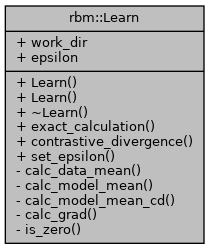
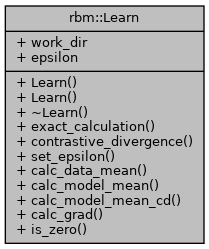
Deploying to gh-pages from @ ankurugranpa/Rbm@cdb7dab4575266c38e277a3c5200c2dcffff69d4 🚀

Changed region(s): [[0.0861, 0.6466, 0.8612, 0.9558]]

diff --git a/classrbm_1_1Learn.html b/classrbm_1_1Learn.html
@@ -68,7 +68,6 @@ $(function() {
   <div class="summary">
 <a href="#pub-methods">公開メンバ関数</a> &#124;
 <a href="#pub-attribs">公開変数類</a> &#124;
-<a href="#pri-methods">非公開メンバ関数</a> &#124;
 <a href="classrbm_1_1Learn-members.html">全メンバ一覧</a>  </div>
   <div class="headertitle">
 <div class="title">rbm::Learn クラス</div>  </div>
@@ -106,17 +105,6 @@ rbm::Learn 連携図</div>
 <tr class="separator:aea5ae36bb1c582b4039837db3750f553"><td class="memSeparator" colspan="2">&#160;</td></tr>
 <tr class="memitem:affa9c2200d2b62d254fa831bb82fad1d"><td class="memItemLeft" align="right" valign="top">void&#160;</td><td class="memItemRight" valign="bottom"><a class="el" href="classrbm_1_1Learn.html#affa9c2200d2b62d254fa831bb82fad1d">set_epsilon</a> (double value)</td></tr>
 <tr class="separator:affa9c2200d2b62d254fa831bb82fad1d"><td class="memSeparator" colspan="2">&#160;</td></tr>
-</table><table class="memberdecls">
-<tr class="heading"><td colspan="2"><h2 class="groupheader"><a name="pub-attribs"></a>
-公開変数類</h2></td></tr>
-<tr class="memitem:a2367128151447894932115e09241c2af"><td class="memItemLeft" align="right" valign="top">std::string&#160;</td><td class="memItemRight" valign="bottom"><a class="el" href="classrbm_1_1Learn.html#a2367128151447894932115e09241c2af">work_dir</a></td></tr>
-<tr class="memdesc:a2367128151447894932115e09241c2af"><td class="mdescLeft">&#160;</td><td class="mdescRight">学習結果や過程の保存先  <a href="classrbm_1_1Learn.html#a2367128151447894932115e09241c2af">[詳解]</a><br /></td></tr>
-<tr class="separator:a2367128151447894932115e09241c2af"><td class="memSeparator" colspan="2">&#160;</td></tr>
-<tr class="memitem:a72e3bea6529aefbb4b57a852ad05b652"><td class="memItemLeft" align="right" valign="top">double&#160;</td><td class="memItemRight" valign="bottom"><a class="el" href="classrbm_1_1Learn.html#a72e3bea6529aefbb4b57a852ad05b652">epsilon</a> = 1e-10</td></tr>
-<tr class="separator:a72e3bea6529aefbb4b57a852ad05b652"><td class="memSeparator" colspan="2">&#160;</td></tr>
-</table><table class="memberdecls">
-<tr class="heading"><td colspan="2"><h2 class="groupheader"><a name="pri-methods"></a>
-非公開メンバ関数</h2></td></tr>
 <tr class="memitem:abc6fbf8c11670664518049bee83bf2b4"><td class="memItemLeft" align="right" valign="top"><a class="el" href="classrbm__types_1_1Grad.html">Grad</a>&#160;</td><td class="memItemRight" valign="bottom"><a class="el" href="classrbm_1_1Learn.html#abc6fbf8c11670664518049bee83bf2b4">calc_data_mean</a> (const <a class="el" href="classrbm_1_1Model.html">Model</a> &amp;model_object, const <a class="el" href="structrbm__types_1_1DataSet.html">DataSet</a> &amp;data_set)</td></tr>
 <tr class="memdesc:abc6fbf8c11670664518049bee83bf2b4"><td class="mdescLeft">&#160;</td><td class="mdescRight">データ平均  <a href="classrbm_1_1Learn.html#abc6fbf8c11670664518049bee83bf2b4">[詳解]</a><br /></td></tr>
 <tr class="separator:abc6fbf8c11670664518049bee83bf2b4"><td class="memSeparator" colspan="2">&#160;</td></tr>
@@ -132,6 +120,14 @@ rbm::Learn 連携図</div>
 <tr class="memitem:a3007d01d42932014a8e25cc7bfbf814f"><td class="memItemLeft" align="right" valign="top">bool&#160;</td><td class="memItemRight" valign="bottom"><a class="el" href="classrbm_1_1Learn.html#a3007d01d42932014a8e25cc7bfbf814f">is_zero</a> (double value)</td></tr>
 <tr class="memdesc:a3007d01d42932014a8e25cc7bfbf814f"><td class="mdescLeft">&#160;</td><td class="mdescRight">ゼロ判定  <a href="classrbm_1_1Learn.html#a3007d01d42932014a8e25cc7bfbf814f">[詳解]</a><br /></td></tr>
 <tr class="separator:a3007d01d42932014a8e25cc7bfbf814f"><td class="memSeparator" colspan="2">&#160;</td></tr>
+</table><table class="memberdecls">
+<tr class="heading"><td colspan="2"><h2 class="groupheader"><a name="pub-attribs"></a>
+公開変数類</h2></td></tr>
+<tr class="memitem:a2367128151447894932115e09241c2af"><td class="memItemLeft" align="right" valign="top">std::string&#160;</td><td class="memItemRight" valign="bottom"><a class="el" href="classrbm_1_1Learn.html#a2367128151447894932115e09241c2af">work_dir</a></td></tr>
+<tr class="memdesc:a2367128151447894932115e09241c2af"><td class="mdescLeft">&#160;</td><td class="mdescRight">学習結果や過程の保存先  <a href="classrbm_1_1Learn.html#a2367128151447894932115e09241c2af">[詳解]</a><br /></td></tr>
+<tr class="separator:a2367128151447894932115e09241c2af"><td class="memSeparator" colspan="2">&#160;</td></tr>
+<tr class="memitem:a72e3bea6529aefbb4b57a852ad05b652"><td class="memItemLeft" align="right" valign="top">double&#160;</td><td class="memItemRight" valign="bottom"><a class="el" href="classrbm_1_1Learn.html#a72e3bea6529aefbb4b57a852ad05b652">epsilon</a> = 1e-10</td></tr>
+<tr class="separator:a72e3bea6529aefbb4b57a852ad05b652"><td class="memSeparator" colspan="2">&#160;</td></tr>
 </table>
 <a name="details" id="details"></a><h2 class="groupheader">詳解</h2>
 <div class="textblock"><p>rbmの学習 </p>
@@ -204,9 +200,6 @@ rbm::Learn 連携図</div>
 
 <div class="memitem">
 <div class="memproto">
-<table class="mlabels">
-  <tr>
-  <td class="mlabels-left">
       <table class="memname">
         <tr>
           <td class="memname"><a class="el" href="classrbm__types_1_1Grad.html">Grad</a> Learn::calc_data_mean </td>
@@ -226,11 +219,6 @@ rbm::Learn 連携図</div>
           <td></td><td></td>
         </tr>
       </table>
-  </td>
-  <td class="mlabels-right">
-<span class="mlabels"><span class="mlabel">private</span></span>  </td>
-  </tr>
-</table>
 </div><div class="memdoc">
 
 <p>データ平均 </p>
@@ -260,9 +248,6 @@ rbm::Learn 連携図</div>
 
 <div class="memitem">
 <div class="memproto">
-<table class="mlabels">
-  <tr>
-  <td class="mlabels-left">
       <table class="memname">
         <tr>
           <td class="memname">double Learn::calc_grad </td>
@@ -272,11 +257,6 @@ rbm::Learn 連携図</div>
           <td></td>
         </tr>
       </table>
-  </td>
-  <td class="mlabels-right">
-<span class="mlabels"><span class="mlabel">private</span></span>  </td>
-  </tr>
-</table>
 </div><div class="memdoc">
 
 <p>勾配計算 </p>
@@ -295,9 +275,6 @@ rbm::Learn 連携図</div>
 
 <div class="memitem">
 <div class="memproto">
-<table class="mlabels">
-  <tr>
-  <td class="mlabels-left">
       <table class="memname">
         <tr>
           <td class="memname"><a class="el" href="classrbm__types_1_1Grad.html">Grad</a> Learn::calc_model_mean </td>
@@ -307,11 +284,6 @@ rbm::Learn 連携図</div>
           <td></td>
         </tr>
       </table>
-  </td>
-  <td class="mlabels-right">
-<span class="mlabels"><span class="mlabel">private</span></span>  </td>
-  </tr>
-</table>
 </div><div class="memdoc">
 
 <p>厳密計算でのモデル平均 </p>
@@ -342,9 +314,6 @@ rbm::Learn 連携図</div>
 
 <div class="memitem">
 <div class="memproto">
-<table class="mlabels">
-  <tr>
-  <td class="mlabels-left">
       <table class="memname">
         <tr>
           <td class="memname"><a class="el" href="classrbm__types_1_1Grad.html">Grad</a> Learn::calc_model_mean_cd </td>
@@ -370,11 +339,6 @@ rbm::Learn 連携図</div>
           <td></td><td></td>
         </tr>
       </table>
-  </td>
-  <td class="mlabels-right">
-<span class="mlabels"><span class="mlabel">private</span></span>  </td>
-  </tr>
-</table>
 </div><div class="memdoc">
 
 <p>Contrastive Divergence(CD法)でのモデル平均 </p>
@@ -575,9 +539,6 @@ rbm::Learn 連携図</div>
 
 <div class="memitem">
 <div class="memproto">
-<table class="mlabels">
-  <tr>
-  <td class="mlabels-left">
       <table class="memname">
         <tr>
           <td class="memname">bool Learn::is_zero </td>
@@ -587,11 +548,6 @@ rbm::Learn 連携図</div>
           <td></td>
         </tr>
       </table>
-  </td>
-  <td class="mlabels-right">
-<span class="mlabels"><span class="mlabel">private</span></span>  </td>
-  </tr>
-</table>
 </div><div class="memdoc">
 
 <p>ゼロ判定 </p>

diff --git a/classrbm_1_1Learn-members.html b/classrbm_1_1Learn-members.html
@@ -72,14 +72,14 @@ $(function() {
 
 <p>継承メンバを含む <a class="el" href="classrbm_1_1Learn.html">rbm::Learn</a> の全メンバ一覧です。</p>
 <table class="directory">
-  <tr class="even"><td class="entry"><a class="el" href="classrbm_1_1Learn.html#abc6fbf8c11670664518049bee83bf2b4">calc_data_mean</a>(const Model &amp;model_object, const DataSet &amp;data_set)</td><td class="entry"><a class="el" href="classrbm_1_1Learn.html">rbm::Learn</a></td><td class="entry"><span class="mlabel">private</span></td></tr>
-  <tr><td class="entry"><a class="el" href="classrbm_1_1Learn.html#acd1c978bb6a3471760ac2bb7229d85e9">calc_grad</a>(const Grad &amp;grad_data)</td><td class="entry"><a class="el" href="classrbm_1_1Learn.html">rbm::Learn</a></td><td class="entry"><span class="mlabel">private</span></td></tr>
-  <tr class="even"><td class="entry"><a class="el" href="classrbm_1_1Learn.html#a122f7afc523febfde32c14076c759e2c">calc_model_mean</a>(const Model &amp;model_object)</td><td class="entry"><a class="el" href="classrbm_1_1Learn.html">rbm::Learn</a></td><td class="entry"><span class="mlabel">private</span></td></tr>
-  <tr><td class="entry"><a class="el" href="classrbm_1_1Learn.html#ad441a7fe5b8f48f13d0e10b77e9aeb05">calc_model_mean_cd</a>(const Model &amp;model_object, const DataSet &amp;data_set, int sampring_rate=1)</td><td class="entry"><a class="el" href="classrbm_1_1Learn.html">rbm::Learn</a></td><td class="entry"><span class="mlabel">private</span></td></tr>
+  <tr class="even"><td class="entry"><a class="el" href="classrbm_1_1Learn.html#abc6fbf8c11670664518049bee83bf2b4">calc_data_mean</a>(const Model &amp;model_object, const DataSet &amp;data_set)</td><td class="entry"><a class="el" href="classrbm_1_1Learn.html">rbm::Learn</a></td><td class="entry"></td></tr>
+  <tr><td class="entry"><a class="el" href="classrbm_1_1Learn.html#acd1c978bb6a3471760ac2bb7229d85e9">calc_grad</a>(const Grad &amp;grad_data)</td><td class="entry"><a class="el" href="classrbm_1_1Learn.html">rbm::Learn</a></td><td class="entry"></td></tr>
+  <tr class="even"><td class="entry"><a class="el" href="classrbm_1_1Learn.html#a122f7afc523febfde32c14076c759e2c">calc_model_mean</a>(const Model &amp;model_object)</td><td class="entry"><a class="el" href="classrbm_1_1Learn.html">rbm::Learn</a></td><td class="entry"></td></tr>
+  <tr><td class="entry"><a class="el" href="classrbm_1_1Learn.html#ad441a7fe5b8f48f13d0e10b77e9aeb05">calc_model_mean_cd</a>(const Model &amp;model_object, const DataSet &amp;data_set, int sampring_rate=1)</td><td class="entry"><a class="el" href="classrbm_1_1Learn.html">rbm::Learn</a></td><td class="entry"></td></tr>
   <tr class="even"><td class="entry"><a class="el" href="classrbm_1_1Learn.html#aea5ae36bb1c582b4039837db3750f553">contrastive_divergence</a>(const Model &amp;before_learn_model, const DataSet &amp;data_set, const double nabla=0.5, const int epoch=100, const int batch_size=100, std::string result_file_name=&quot;learn_process_exact_calc.csv&quot;, int cd_k_num=1, int *result_epoch=nullptr, int *result_batch_time=nullptr)</td><td class="entry"><a class="el" href="classrbm_1_1Learn.html">rbm::Learn</a></td><td class="entry"></td></tr>
   <tr><td class="entry"><a class="el" href="classrbm_1_1Learn.html#a72e3bea6529aefbb4b57a852ad05b652">epsilon</a></td><td class="entry"><a class="el" href="classrbm_1_1Learn.html">rbm::Learn</a></td><td class="entry"></td></tr>
   <tr class="even"><td class="entry"><a class="el" href="classrbm_1_1Learn.html#a99850d29970f9310b26e41a5f4a1c46e">exact_calculation</a>(const Model &amp;before_learn_model, const DataSet &amp;data_set, const int max_step=100, const double nabla=0.5, std::string result_file_name=&quot;learn_process_exact_calc.csv&quot;, int *result_step=nullptr)</td><td class="entry"><a class="el" href="classrbm_1_1Learn.html">rbm::Learn</a></td><td class="entry"></td></tr>
-  <tr><td class="entry"><a class="el" href="classrbm_1_1Learn.html#a3007d01d42932014a8e25cc7bfbf814f">is_zero</a>(double value)</td><td class="entry"><a class="el" href="classrbm_1_1Learn.html">rbm::Learn</a></td><td class="entry"><span class="mlabel">private</span></td></tr>
+  <tr><td class="entry"><a class="el" href="classrbm_1_1Learn.html#a3007d01d42932014a8e25cc7bfbf814f">is_zero</a>(double value)</td><td class="entry"><a class="el" href="classrbm_1_1Learn.html">rbm::Learn</a></td><td class="entry"></td></tr>
   <tr class="even"><td class="entry"><a class="el" href="classrbm_1_1Learn.html#ad98834484e2daab5e0a24d29d6d2e627">Learn</a>()</td><td class="entry"><a class="el" href="classrbm_1_1Learn.html">rbm::Learn</a></td><td class="entry"></td></tr>
   <tr><td class="entry"><a class="el" href="classrbm_1_1Learn.html#aeb943acc9a3398dede811092650da950">Learn</a>(std::string work_dir)</td><td class="entry"><a class="el" href="classrbm_1_1Learn.html">rbm::Learn</a></td><td class="entry"></td></tr>
   <tr class="even"><td class="entry"><a class="el" href="classrbm_1_1Learn.html#affa9c2200d2b62d254fa831bb82fad1d">set_epsilon</a>(double value)</td><td class="entry"><a class="el" href="classrbm_1_1Learn.html">rbm::Learn</a></td><td class="entry"></td></tr>

diff --git a/learn_8h_source.html b/learn_8h_source.html
@@ -110,7 +110,7 @@ $(function() {
 <div class="line"><a name="l00078"></a><span class="lineno">   78</span>&#160;                                   <span class="keywordtype">int</span>* result_batch_time=<span class="keyword">nullptr</span>);</div>
 <div class="line"><a name="l00079"></a><span class="lineno">   79</span>&#160; </div>
 <div class="line"><a name="l00080"></a><span class="lineno">   80</span>&#160;      <span class="keywordtype">void</span> set_epsilon(<span class="keywordtype">double</span> value);</div>
-<div class="line"><a name="l00081"></a><span class="lineno">   81</span>&#160;    <span class="keyword">private</span>: </div>
+<div class="line"><a name="l00081"></a><span class="lineno">   81</span>&#160; </div>
 <div class="line"><a name="l00089"></a><span class="lineno">   89</span>&#160;      <a class="code" href="classrbm__types_1_1Grad.html">Grad</a> calc_data_mean(<span class="keyword">const</span> <a class="code" href="classrbm_1_1Model.html">Model</a>&amp; model_object, <span class="keyword">const</span> <a class="code" href="structrbm__types_1_1DataSet.html">DataSet</a>&amp; data_set);</div>
 <div class="line"><a name="l00090"></a><span class="lineno">   90</span>&#160; </div>
 <div class="line"><a name="l00098"></a><span class="lineno">   98</span>&#160;      <a class="code" href="classrbm__types_1_1Grad.html">Grad</a> calc_model_mean(<span class="keyword">const</span> <a class="code" href="classrbm_1_1Model.html">Model</a>&amp; model_object);</div>
